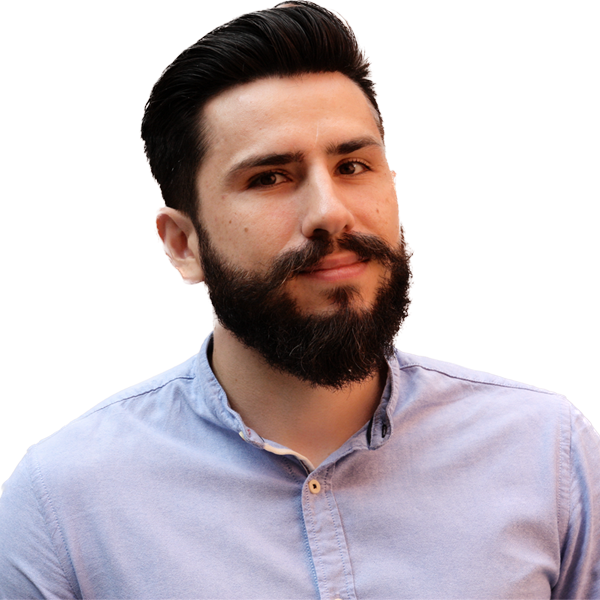
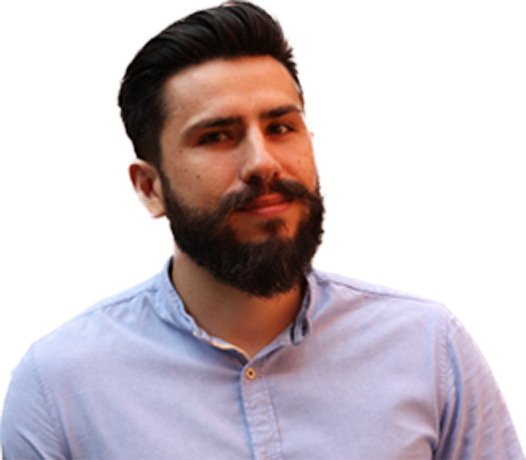
header animations

diff --git a/frontend_react/src/container/Header/Header.jsx b/frontend_react/src/container/Header/Header.jsx
@@ -2,18 +2,38 @@ import React from "react";
 import {AppWrap} from "../../wrapper";
 import {useTranslation} from "react-i18next";
 import {FaRegHandPointRight} from 'react-icons/fa'
+import {motion} from "framer-motion";
 
 import styles from "./Header.module.scss";
+
+const container = {
+    whileInView: (i = 1) => ({
+        opacity: [0, 1],
+        transition: {staggerChildren: 0.2, delayChildren: .2 * i}
+    }),
+};
+
+const child = {
+    whileInView: {
+        opacity: [0, 1],
+        y: [20, 0],
+        transition: {duration: .3}
+    },
+};
 
 const Header = () => {
     const {t} = useTranslation('global')
 
     return (
-        <div className={styles.container}>
-            <p className={styles.intro}>{t('sections.home.header.p1')}</p>
-            <h1 className={styles.title}>Michał <span className={styles.titleSecondary}>Stępień</span></h1>
-            <h1 className={styles.subtitle}>Junior Web Developer</h1>
-            <div className={styles.description}>
+        <motion.div
+            variants={container}
+            whileInView="whileInView"
+            className={styles.container}>
+            <motion.p variants={child} className={styles.intro}>{t('sections.home.header.p1')}</motion.p>
+            <motion.h1 variants={child} className={styles.title}>Michał <span
+                className={styles.titleSecondary}>Stępień</span></motion.h1>
+            <motion.h1 variants={child} className={styles.subtitle}>Junior Web Developer</motion.h1>
+            <motion.div variants={child} className={styles.description}>
                 <p>{t('sections.home.header.p2')}</p>
                 <p>
                     {t('sections.home.header.p3')}
@@ -25,8 +45,8 @@ const Header = () => {
                        href="#skills"> <FaRegHandPointRight/> {t('sections.home.links.skills')}</a>
                     .
                 </p>
-            </div>
-        </div>
+            </motion.div>
+        </motion.div>
     );
 };
 

diff --git a/frontend_react/src/container/Contact/Contact.jsx b/frontend_react/src/container/Contact/Contact.jsx
@@ -16,7 +16,7 @@ export const Contact = ({links}) => {
                 <h2>Michał Stępień</h2>
                 <p className={styles.subheader}>Junior web developer</p>
             </div>
-            <img className={styles.img} src={images.about01} alt="profile_bg"/>
+            <img className={styles.img} src={images.avatar02} alt="profile_bg"/>
             <div className={styles.infoContainer}>
                 <div className={`${styles.infoSection} ${styles.locationSection}`}>
                     <div>

diff --git a/frontend_react/src/constants/images.js b/frontend_react/src/constants/images.js
@@ -35,8 +35,14 @@ import nb from "../assets/nb.png";
 import skype from "../assets/skype.png";
 import spotify from "../assets/spotify.png";
 import avatar from "../assets/avatar.png";
+import avatar02 from "../assets/avatar02.png";
+import avatar03 from "../assets/avatar03.png";
+import avatar04 from "../assets/avatar04.png";
 
 export default {
+    avatar02,
+    avatar03,
+    avatar04,
     avatar,
     email,
     mobile,

diff --git a/frontend_react/src/container/Contact/Contact.module.scss b/frontend_react/src/container/Contact/Contact.module.scss
@@ -30,6 +30,8 @@
   width: 100%;
   border-radius: 25px;
   display: none;
+  background: var(--color-description);
+  transition: background-color .2s ease-in-out;
   @media screen and (min-height: 900px) {
     display: block;
   }
